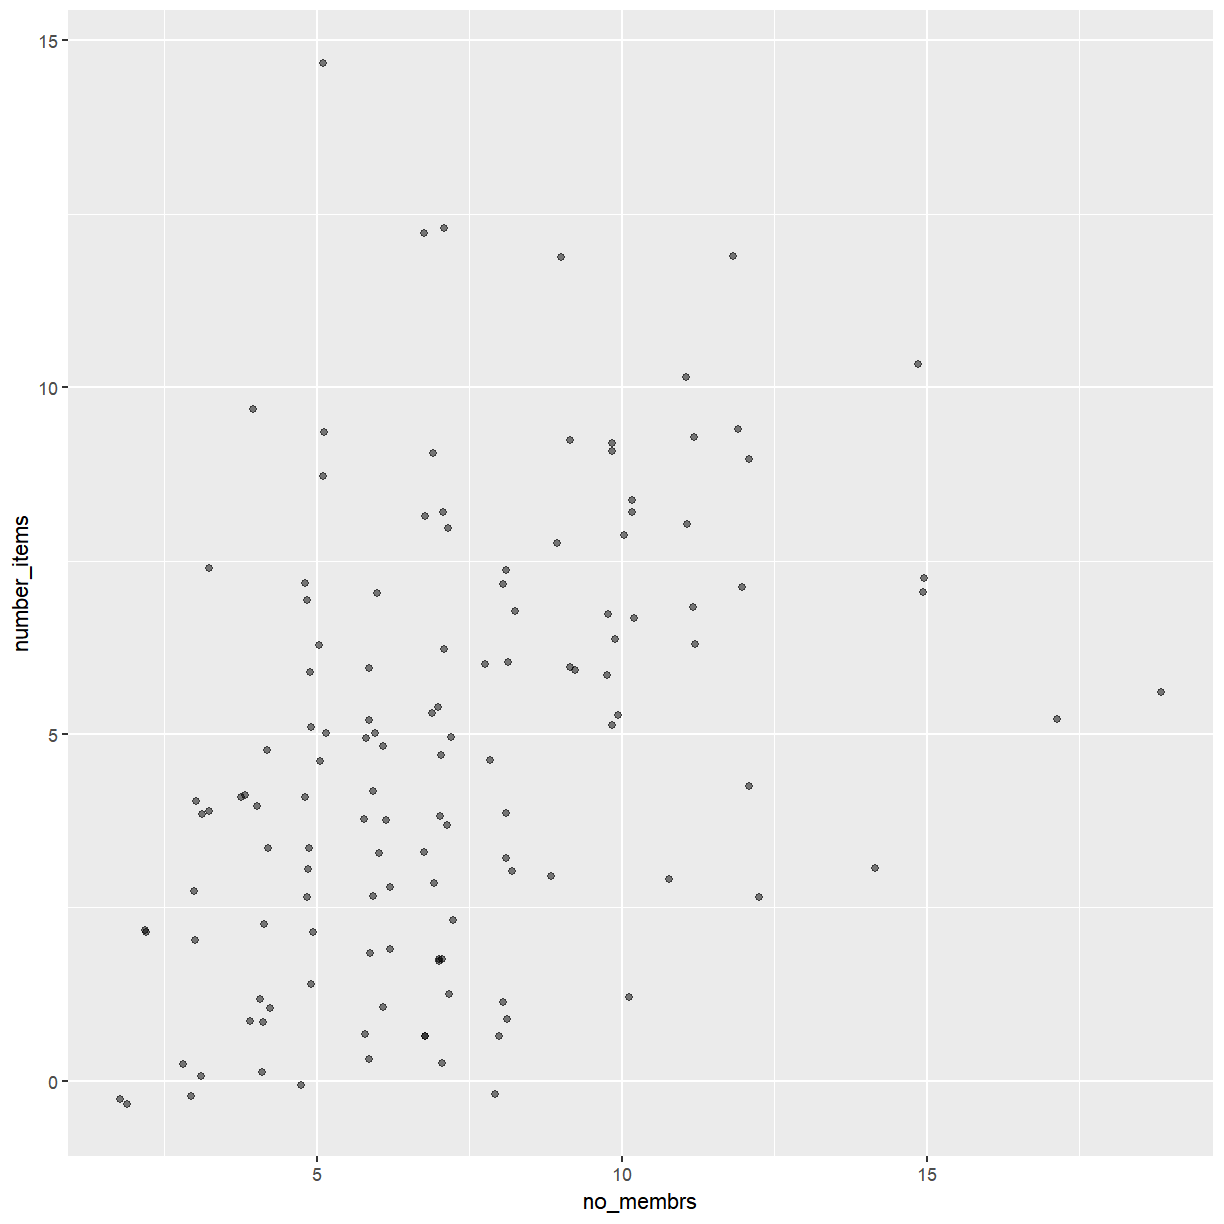
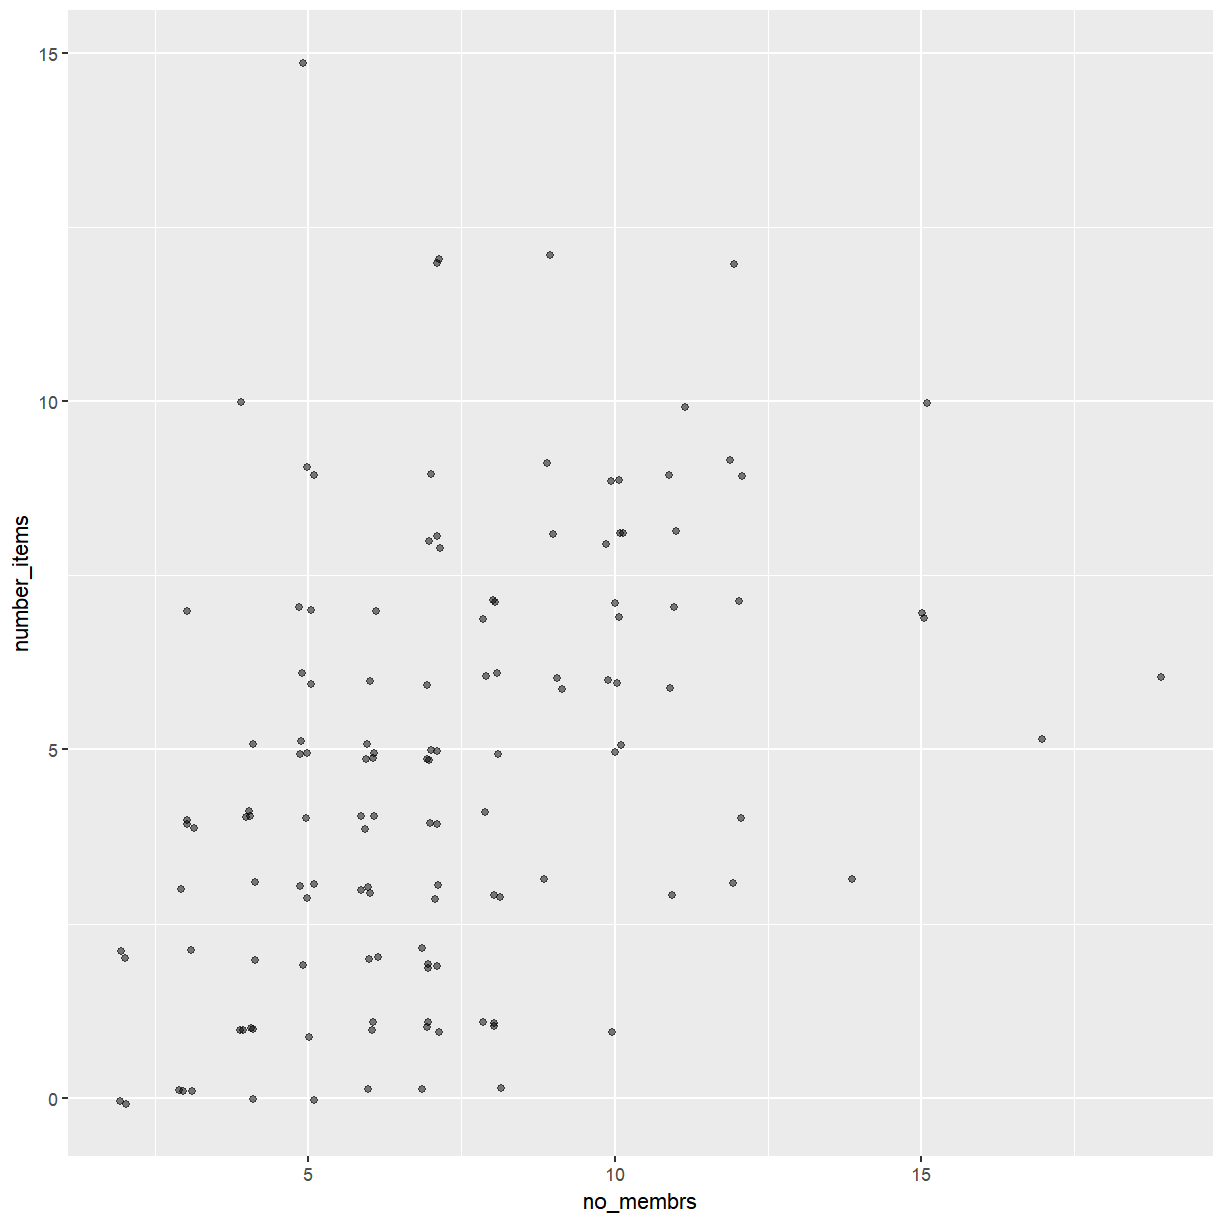
Tweak plots

diff --git a/_episodes/01-ggplot2.md b/_episodes/01-ggplot2.md
@@ -79,6 +79,15 @@ See spec(...) for full column specifications.
 ~~~
 {: .output}
 
+Before we proceed to plot the data, let's take a quick look at what we
+just loaded.
+
+
+~~~
+View(interviews_plotting)
+~~~
+{: .language-r}
+
 ## Plotting with **`ggplot2`**
 
 **`ggplot2`** is a plotting package that makes it simple to create complex plots
@@ -260,7 +269,7 @@ ggplot(data = interviews_plotting, aes(x = no_membrs, y = number_items)) +
 
 <img src="../fig/rmd-01-adding-jitter-1.png" title="plot of chunk adding-jitter" alt="plot of chunk adding-jitter" width="612" style="display: block; margin: auto;" />
 
-That is a bit better but now the points with different *x* values can be able
+That is a bit better but now the points with similar *x* and *y* values are a
 bit difficult to distinguish. We can fix that by reducing the amount of horizontal
 jitter using the `width` argument.
 
@@ -268,18 +277,44 @@ jitter using the `width` argument.
 
 ~~~
 ggplot(data = interviews_plotting, aes(x = no_membrs, y = number_items)) +
-    geom_jitter(alpha = 0.5, width = 0.25)
+    geom_jitter(alpha = 0.5, width = 0.15, height = 0.15)
 ~~~
 {: .language-r}
 
 <img src="../fig/rmd-01-reduce-jitter-1.png" title="plot of chunk reduce-jitter" alt="plot of chunk reduce-jitter" width="612" style="display: block; margin: auto;" />
+
+Now the points for each combination of `no_membrs` and `number_items` form small clusters
+that can be distinguished visually. 
+
+> ## Exercise
+>
+> It may be possible to enhance the appearance of the plot further by changing
+> the size of the points. Use the `size` argument to change the point size.
+> Combine this with the `width` and `height` arguments to adjust the jitter.
+>
+> Try a few different values. Which one do you like best?
+> > ## Solution
+> >
+> > Here is one possible solution.
+> > 
+> > 
+> > ~~~
+> > ggplot(data = interviews_plotting, aes(x = no_membrs, y = number_items)) +
+> >     geom_jitter(alpha = 0.5, width = 0.25, height = 0.25, size = 4)
+> > ~~~
+> > {: .language-r}
+> > 
+> > <img src="../fig/rmd-01-increase-point-size-1.png" title="plot of chunk increase-point-size" alt="plot of chunk increase-point-size" width="612" style="display: block; margin: auto;" />
+> {: .solution}
+{: .challenge}
+
 
 We can also add colors for all the points:
 
 
 ~~~
 ggplot(data = interviews_plotting, aes(x = no_membrs, y = number_items)) +
-geom_jitter(alpha = 0.5, color = "blue")
+geom_jitter(alpha = 0.5, width = 0.15, height = 0.15, color = "blue")
 ~~~
 {: .language-r}
 
@@ -295,7 +330,7 @@ Here is an example where we color by **`village`**:
 
 ~~~
 ggplot(data = interviews_plotting, aes(x = no_membrs, y = number_items)) +
-    geom_jitter(aes(color = village), alpha = 0.5)
+    geom_jitter(aes(color = village), alpha = 0.5, width = 0.15, height = 0.15)
 ~~~
 {: .language-r}
 
